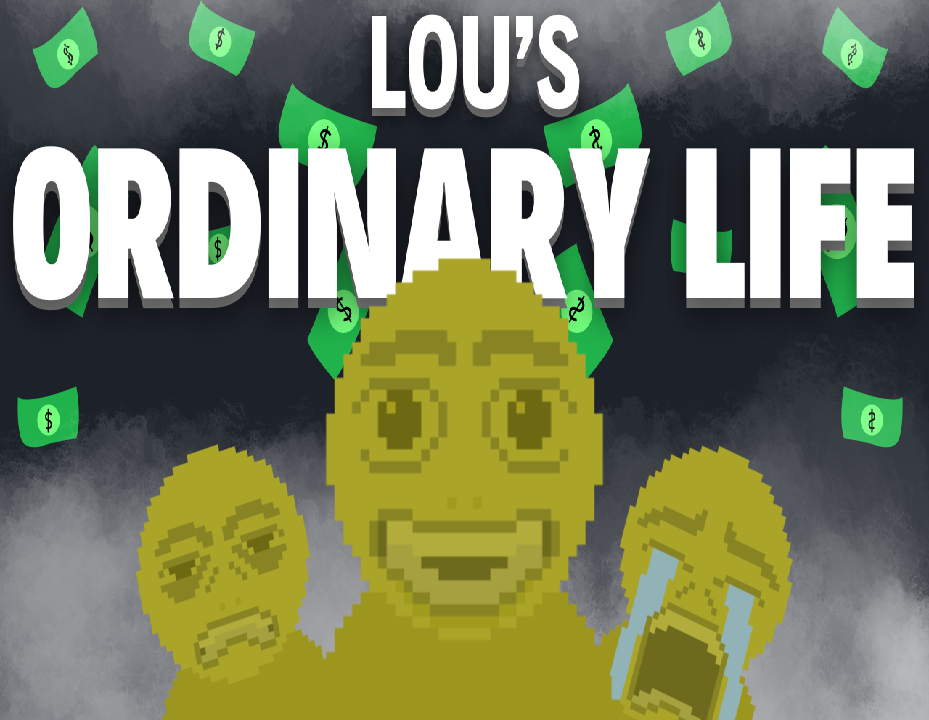
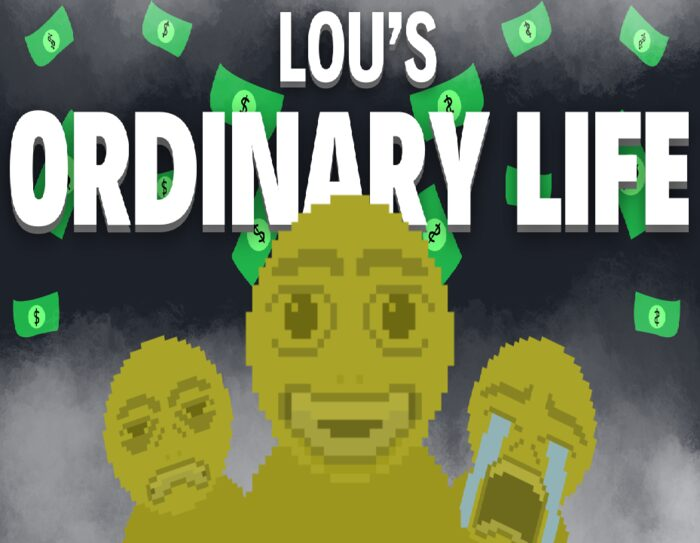
Faster first load, same sexy look: gzip + preload + thumbnail squeeze
- nginx: enable gzip (html 158KB->34KB) with vary, keep immutable cache
- index.html: preload m3x6 font + itch-embed-colors.js, preconnect cdn.jsdelivr + store.steampowered, dns-prefetch
- thumbnails: resize photographic covers to 700px max, progressive JPEG q82 (2.3MB->232KB, 90% smaller, 4x retina still sharp, PNG pixel-art untouched) — instant project open

diff --git a/index.html b/index.html
@@ -9,6 +9,11 @@
     <link rel="manifest" href="/site.webmanifest">
     <link rel="preconnect" href="https://fonts.googleapis.com">
     <link rel="preconnect" href="https://fonts.gstatic.com" crossorigin>
+    <link rel="preconnect" href="https://cdn.jsdelivr.net" crossorigin>
+    <link rel="dns-prefetch" href="https://store.steampowered.com">
+    <link rel="preconnect" href="https://store.steampowered.com" crossorigin>
+    <link rel="preload" href="/assets/fonts/m3x6.ttf" as="font" type="font/ttf" crossorigin fetchpriority="high">
+    <link rel="preload" href="/assets/itch-embed-colors.js" as="script" fetchpriority="high">
     <link href="https://fonts.googleapis.com/css2?family=Press+Start+2P&display=swap" rel="stylesheet">
     <script>
         document.addEventListener('load', function(event) {
